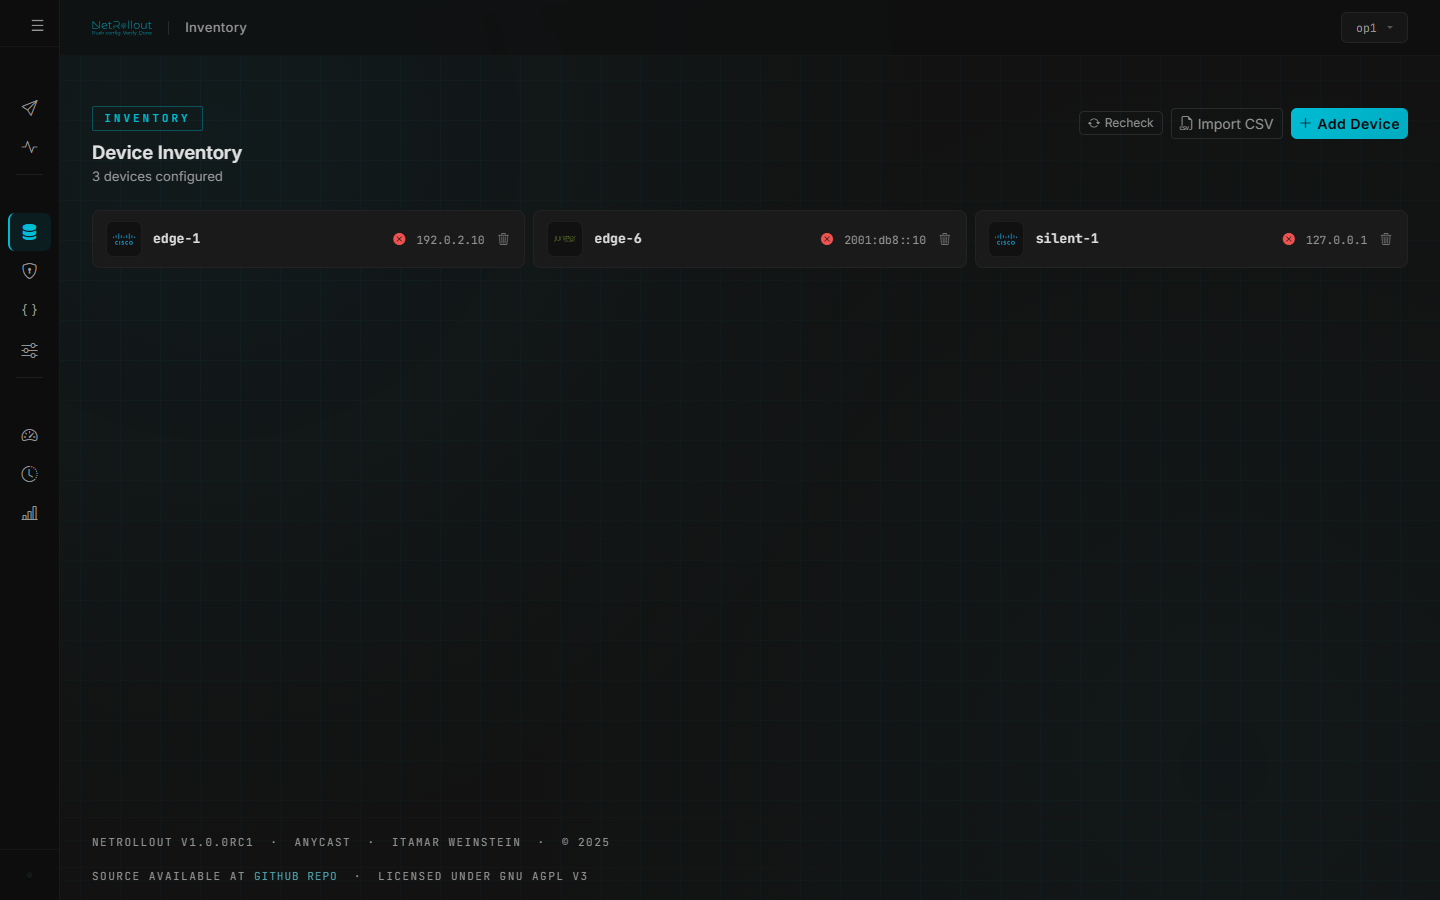
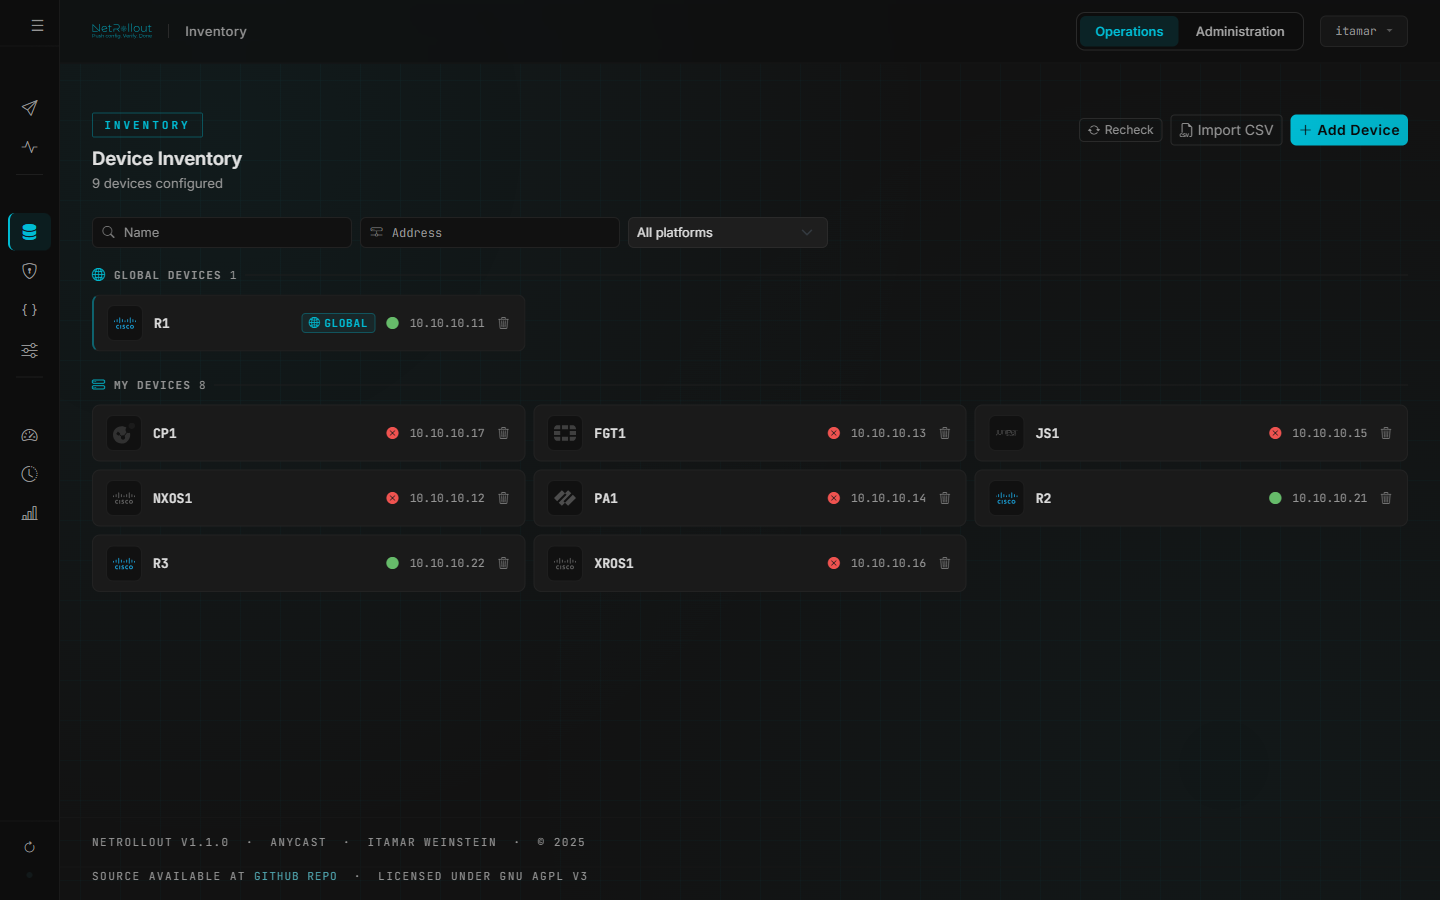
Screenshots of 1.1.0 from the lab
New: live-log, verification, analytics, mappings, grafana; replaced:
dashboard (a running rollout and the Devices in rollouts card), inventory
(nine devices, six vendors), new-rollout (two platforms, 1440 x 1200 so the
options show), results (one job open). Placed: the website's "What it looks
like" (the dashboard, the live log with Verification, Results with
Inventory, New Rollout), the README (Verification under Features), the user
guide (live log, Verification, mappings) and the admin guide (analytics,
Grafana).

diff --git a/website/index.html b/website/index.html
@@ -271,14 +271,28 @@ footer p { margin: 0; }
         </figure>
         <div class="pair">
           <figure>
-            <img src="docs/images/new-rollout.png" alt="The New Rollout page with devices selected and commands entered" loading="lazy" width="1440" height="900">
-            <figcaption>New Rollout: devices, commands, Verify.</figcaption>
+            <img src="docs/images/live-log.png" alt="Active Jobs with a rollout's live log open and its completion card: 3 success" loading="lazy" width="1440" height="900">
+            <figcaption>The live log: each device as it goes, then the outcome.</figcaption>
           </figure>
           <figure>
-            <img src="docs/images/results.png" alt="The Results page listing finished rollouts and their statuses" loading="lazy" width="1440" height="900">
-            <figcaption>Results: every device's outcome, log and Verification.</figcaption>
+            <img src="docs/images/verification.png" alt="The Verification window: a rejected command with the device's reply, one in review, two that took effect" loading="lazy" width="1440" height="900">
+            <figcaption>Verification: each command, the line it rests on, what the device replied.</figcaption>
           </figure>
         </div>
+        <div class="pair">
+          <figure>
+            <img src="docs/images/results.png" alt="The Results page with one job open: three devices, all success" loading="lazy" width="1440" height="900">
+            <figcaption>Results: every device's outcome, log and Verification.</figcaption>
+          </figure>
+          <figure>
+            <img src="docs/images/inventory.png" alt="The device inventory: nine devices from six vendors, with reachability" loading="lazy" width="1440" height="900">
+            <figcaption>Inventory: your devices and the global ones, reachable or not.</figcaption>
+          </figure>
+        </div>
+        <figure>
+          <img src="docs/images/new-rollout.png" alt="The New Rollout page: devices of two platforms selected, a command set for each, a note, Verify on" loading="lazy" width="1440" height="1200">
+          <figcaption>New Rollout: devices, a command set per platform, Verify.</figcaption>
+        </figure>
       </div>
     </div>
   </section>

diff --git a/docs/user-guide.md b/docs/user-guide.md
@@ -287,6 +287,8 @@ You set a device's values in its **Edit Device** window, under **VARIABLE ATTRIB
 
 ### Variable mappings
 
+![Variable Mappings: two tokens and the properties they read](images/mappings.png)
+
 On **Variable Mappings**, select **Add Mapping**:
 
 - **TOKEN**: letters, digits and underscores, up to 64 characters, without the `$$`. For example `LOOPBACK`, used in commands as `$$LOOPBACK$$`.
@@ -388,6 +390,8 @@ Select **Cancel** on the dashboard or on Active Jobs:
 
 When you select **Launch Rollout**, NetRollout takes you to **Active Jobs**, with your new job highlighted.
 
+![Active Jobs with a rollout's live log open and its completion card](images/live-log.png)
+
 **Active Jobs** lists the rollouts running or queued, with **Running**, **Queued** and **Devices in flight** counts. The page refreshes itself every 15 seconds while jobs are active (not while a log is open). Administrators also see other users' jobs, under **Other Users**.
 
 For each job:
@@ -450,6 +454,8 @@ A job's status comes from its devices:
 ### Reviewing a device
 
 A device with a command in review waits for a person: NetRollout couldn't prove it, and won't guess. A device with a rejected command (`partial` or `failed`) can be decided the same way, so a false rejection has a way back. Results counts both as **to decide**, and so does the dashboard. The job's owner or any administrator decides:
+
+![The Verification window: a rejected command with the device's reply, one in review, two that took effect, and Confirm / Reject](images/verification.png)
 
 1. Open the job in Results and select the device's status, or **Verification**.
 2. The **Verification** window shows each command with its verdict, the line it rests on (or "no change in its section"), and what the device replied. For example: `ip address 10.0.0.1 255.255.255.255` in review, with `+ ip address 10.0.0.1/32` - the device wrote your mask as a prefix. Or `ntp server 192.0.2.123` in review, no change, the device replied `% Initialization of NTP failed`.

diff --git a/docs/admin-guide.md b/docs/admin-guide.md
@@ -650,6 +650,8 @@ Monitoring is optional; you choose it at install. It adds:
 - **Loki** and **Alloy**: Alloy ships the files in `logs/` to Loki (kept 60 days).
 - **Grafana**, with dashboards over the metrics, the logs and NetRollout's database.
 
+![Grafana's Operations Overview dashboard](images/grafana.png)
+
 Open Grafana from **Administration → Monitoring**, or at `https://<your address>/grafana/`. Only signed-in NetRollout admins can open it: Grafana trusts NetRollout's sign-in and has no login form of its own. Every admin is a Grafana Editor.
 
 Grafana's dashboards are in the **NetRollout** folder:
@@ -765,6 +767,8 @@ With monitoring on, the rollout logs are also searchable in Grafana (Loki).
 ## The audit log
 
 **Administration → Audit Logs** lists who did what and when, with the outcome and the IP address. Filter by actor, action, outcome and day (**From** / **To**, both included). The page shows the newest 500; **Export CSV** downloads every entry the filters let through, the detail as JSON in one column. Under each action, the entry's detail reads in one line: a failed sign-in's reason, a change's from → to, a lock. Click an entry (or press Enter on it) to see its full detail as JSON; the ⚙ menu also has **Copy Row**. **Administration → Analytics** has an **Audit Log Query** builder with CSV export.
+
+![Administration → Analytics: the organisation's last 30 days](images/analytics.png)
 
 Recorded actions include:
 

diff --git a/README.md b/README.md
@@ -47,6 +47,8 @@ It is for network engineers who want a bulk change done and checked without writ
 - **Upgrades.** NetRollout Manager (Windows) and `netrollout.sh upgrade` (Linux) download, check and apply a new release, with a backup first.
 - **CLI.** `netrollout-cli` runs a one-off rollout from a devices CSV and a commands file. It needs no database and no Docker.
 
+![Verification of one device: a rejected command with the device's reply, one in review with the line it found, two that took effect](docs/images/verification.png)
+
 ## Supported platforms
 
 NetRollout uses Netmiko's `device_type` names. The finish column says how a pushed change is made permanent.
